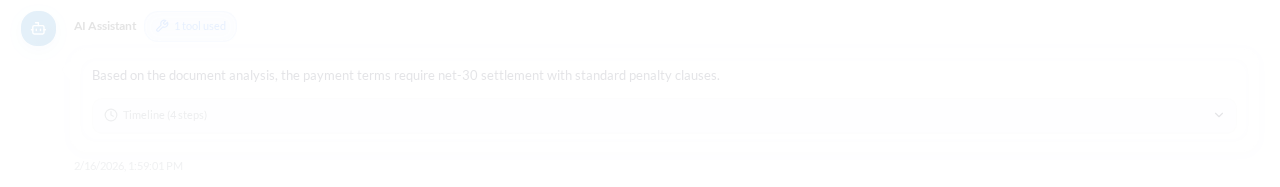
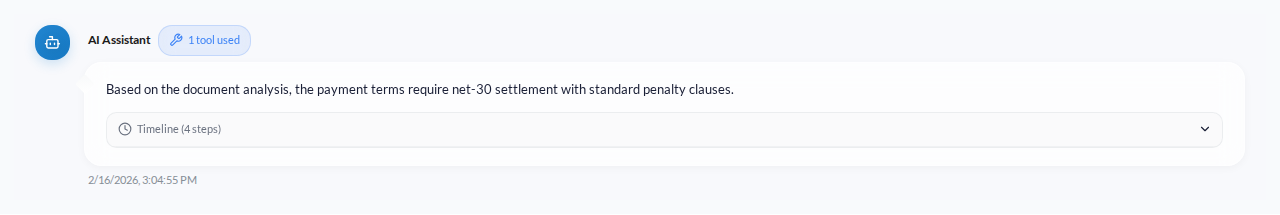
Fix washed-out screenshots: add chat panel background and animation settle
Screenshots were faded because ChatMessage has transparent backgrounds
designed for the chat panel's #f8fafc bg and a framer-motion entrance
animation (opacity 0→1, 300ms). Added the proper background wrapper
and a 500ms settle delay before capture.

diff --git a/frontend/tests/ToolUsagePopover.ct.tsx b/frontend/tests/ToolUsagePopover.ct.tsx
@@ -363,36 +363,15 @@ test.describe("Tool Usage Popover", () => {
   });
 
   // --- Documentation Screenshots ---
+  //
+  // ChatMessage uses framer-motion entrance animation (opacity 0→1, 300ms)
+  // and has transparent backgrounds designed for the chat panel's #f8fafc bg.
+  // We provide that background and wait for the animation to settle.
 
   test("screenshot: single tool badge (collapsed)", async ({ mount, page }) => {
     const component = await mount(
       <ChatMessageTestWrapper>
-        <ChatMessage
-          {...baseAssistantMessage}
-          content="Based on the document analysis, the payment terms require net-30 settlement with standard penalty clauses."
-          isComplete={true}
-          timeline={singleToolTimeline}
-          hasTimeline={true}
-        />
-      </ChatMessageTestWrapper>
-    );
-
-    const badge = page.locator("role=button[name=/tool/i]");
-    await expect(badge).toBeVisible({ timeout: 5000 });
-
-    await docScreenshot(page, "chat--tool-badge--single", {
-      element: component,
-    });
-  });
-
-  test("screenshot: single tool popover open", async ({ mount, page }) => {
-    // Widen viewport and add left padding so the right-aligned popover
-    // (min-width 320px) doesn't extend past the left viewport edge.
-    await page.setViewportSize({ width: 1200, height: 600 });
-
-    await mount(
-      <ChatMessageTestWrapper>
-        <div style={{ paddingLeft: "360px" }}>
+        <div style={{ background: "#f8fafc", padding: "1rem" }}>
           <ChatMessage
             {...baseAssistantMessage}
             content="Based on the document analysis, the payment terms require net-30 settlement with standard penalty clauses."
@@ -406,6 +385,45 @@ test.describe("Tool Usage Popover", () => {
 
     const badge = page.locator("role=button[name=/tool/i]");
     await expect(badge).toBeVisible({ timeout: 5000 });
+
+    // Wait for framer-motion entrance animation to complete
+    await page.waitForTimeout(500);
+
+    await docScreenshot(page, "chat--tool-badge--single", {
+      element: component,
+    });
+  });
+
+  test("screenshot: single tool popover open", async ({ mount, page }) => {
+    // Widen viewport and add left padding so the right-aligned popover
+    // (min-width 320px) doesn't extend past the left viewport edge.
+    await page.setViewportSize({ width: 1200, height: 600 });
+
+    await mount(
+      <ChatMessageTestWrapper>
+        <div
+          style={{
+            background: "#f8fafc",
+            padding: "1rem",
+            paddingLeft: "360px",
+          }}
+        >
+          <ChatMessage
+            {...baseAssistantMessage}
+            content="Based on the document analysis, the payment terms require net-30 settlement with standard penalty clauses."
+            isComplete={true}
+            timeline={singleToolTimeline}
+            hasTimeline={true}
+          />
+        </div>
+      </ChatMessageTestWrapper>
+    );
+
+    const badge = page.locator("role=button[name=/tool/i]");
+    await expect(badge).toBeVisible({ timeout: 5000 });
+
+    // Wait for framer-motion entrance animation to complete
+    await page.waitForTimeout(500);
 
     // Open the popover
     await badge.hover();
@@ -425,7 +443,13 @@ test.describe("Tool Usage Popover", () => {
 
     await mount(
       <ChatMessageTestWrapper>
-        <div style={{ paddingLeft: "360px" }}>
+        <div
+          style={{
+            background: "#f8fafc",
+            padding: "1rem",
+            paddingLeft: "360px",
+          }}
+        >
           <ChatMessage
             {...baseAssistantMessage}
             content="Here is my analysis of the indemnification clauses in this agreement."
@@ -439,6 +463,9 @@ test.describe("Tool Usage Popover", () => {
 
     const badge = page.locator("role=button[name=/tool/i]");
     await expect(badge).toBeVisible({ timeout: 5000 });
+
+    // Wait for framer-motion entrance animation to complete
+    await page.waitForTimeout(500);
 
     // Open the popover
     await badge.hover();
